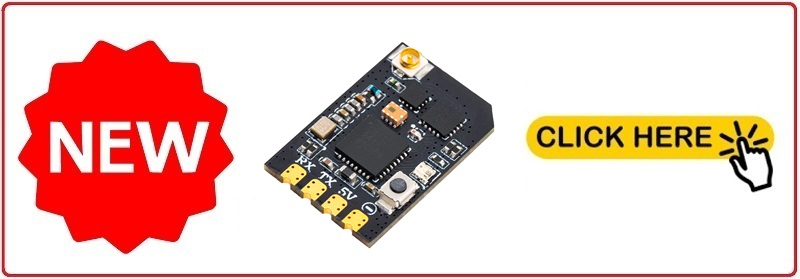
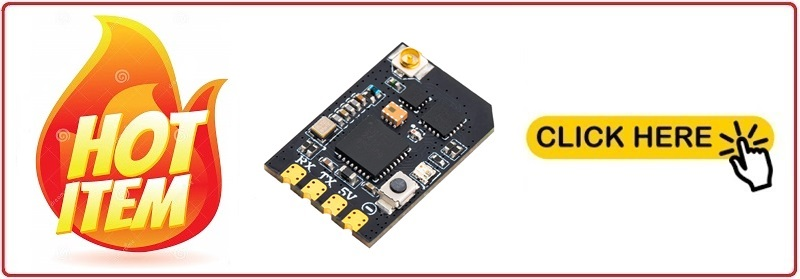
[Actions CI] exclude Retro, include Retro Mk.II

Changed region(s): [[0.0, 0.0287, 0.3125, 0.9749]]

diff --git a/README.md b/README.md
@@ -13,6 +13,7 @@ DIY, multi-functional, compatible, sub-1 GHz ISM band radio based proximity awar
 [<img src="https://github.com/lyusupov/SoftRF/raw/master/documents/images/Prime3-banner.jpg">](https://github.com/lyusupov/SoftRF/wiki/Prime-Edition-MkIII)
 [<img src="https://github.com/lyusupov/SoftRF/raw/master/documents/images/Badge-banner.jpg">](https://github.com/lyusupov/SoftRF/wiki/Badge-Edition)
 [<img src="https://github.com/lyusupov/SoftRF/raw/master/documents/images/Card-banner.jpg">](https://github.com/lyusupov/SoftRF/wiki/Card-Edition)
+[<img src="https://github.com/lyusupov/SoftRF/raw/master/documents/images/Nano-banner.jpg">](https://github.com/lyusupov/SoftRF/wiki/Nano-Edition)
 
 ## Features
 
@@ -26,8 +27,8 @@ DIY, multi-functional, compatible, sub-1 GHz ISM band radio based proximity awar
 * **Portable**
     * [**Concorde Edition**](https://github.com/lyusupov/SoftRF/wiki/Concorde-Edition)&nbsp;![](https://github.com/lyusupov/SoftRF/raw/master/documents/images/new-icon.jpg)
     * [**Airventure Edition**](https://github.com/lyusupov/SoftRF/wiki/Airventure-Edition)&nbsp;![](https://github.com/lyusupov/SoftRF/raw/master/documents/images/new-icon.jpg)
-    * [**Handheld Edition**](https://github.com/lyusupov/SoftRF/wiki/Handheld-Edition)&nbsp;![](https://github.com/lyusupov/SoftRF/raw/master/documents/images/new-icon.jpg)
-    * [**Gizmo Edition**](https://github.com/lyusupov/SoftRF/wiki/Gizmo-Edition)&nbsp;![](https://github.com/lyusupov/SoftRF/raw/master/documents/images/new-icon.jpg)
+    * [**Handheld Edition**](https://github.com/lyusupov/SoftRF/wiki/Handheld-Edition)
+    * [**Gizmo Edition**](https://github.com/lyusupov/SoftRF/wiki/Gizmo-Edition)
     * [**Prime Mark III**](https://github.com/lyusupov/SoftRF/wiki/Prime-Edition-MkIII) ![](https://github.com/lyusupov/SoftRF/raw/master/documents/images/hot_icon.jpg)
     * [**Prime Mark II**](https://github.com/lyusupov/SoftRF/wiki/Prime-Edition-MkII)
 * **Classic** 2.25 inch instrument
@@ -40,7 +41,7 @@ DIY, multi-functional, compatible, sub-1 GHz ISM band radio based proximity awar
     * [**Prime Mark III**](https://github.com/lyusupov/SoftRF/wiki/Prime-Edition-MkIII)
     * [**Solaris Edition**](https://github.com/lyusupov/SoftRF/wiki/Solaris-Edition)&nbsp;![](https://github.com/lyusupov/SoftRF/raw/master/documents/images/new-icon.jpg)
     * [**Pocket Edition**](https://github.com/lyusupov/SoftRF/wiki/Pocket-Edition)&nbsp;![](https://github.com/lyusupov/SoftRF/raw/master/documents/images/new-icon.jpg)
-    * [**Handheld Edition**](https://github.com/lyusupov/SoftRF/wiki/Handheld-Edition)&nbsp;![](https://github.com/lyusupov/SoftRF/raw/master/documents/images/new-icon.jpg)
+    * [**Handheld Edition**](https://github.com/lyusupov/SoftRF/wiki/Handheld-Edition)
     * [**Prime Mark II**](https://github.com/lyusupov/SoftRF/wiki/Prime-Edition-MkII)
     * [**Uni Edition**](https://github.com/lyusupov/SoftRF/wiki/Uni-Edition)
     * [**Mini Edition**](https://github.com/lyusupov/SoftRF/wiki/Mini-Edition)
@@ -68,7 +69,7 @@ DIY, multi-functional, compatible, sub-1 GHz ISM band radio based proximity awar
     * [**Card Edition**](https://github.com/lyusupov/SoftRF/wiki/Card-Edition)&nbsp;![](https://github.com/lyusupov/SoftRF/raw/master/documents/images/hot_icon.jpg) - IP65
     * [**Lego Edition**](https://github.com/lyusupov/SoftRF/wiki/Lego-Edition) - IP67
 * **UAV** add-on
-    * [**Nano Edition**](https://github.com/lyusupov/SoftRF/wiki/Nano-Edition)&nbsp;![](https://github.com/lyusupov/SoftRF/raw/master/documents/images/new-icon.jpg)
+    * [**Nano Edition**](https://github.com/lyusupov/SoftRF/wiki/Nano-Edition)&nbsp;![](https://github.com/lyusupov/SoftRF/raw/master/documents/images/hot_icon.jpg)
     * [**UAV Edition**](https://github.com/lyusupov/SoftRF/wiki/UAV-Edition)
 * Raspberry Pi **friendly**
     * [**Raspberry Edition**](https://github.com/lyusupov/SoftRF/wiki/Raspberry-Edition)
@@ -129,15 +130,15 @@ Model(s)|Platform|First appearance|&nbsp;&nbsp;&nbsp;&nbsp;&nbsp;&nbsp;&nbsp;Sta
 1&nbsp;[Retro](https://github.com/lyusupov/SoftRF/wiki/Retro-Edition)<br>2&nbsp;[**Dongle**](https://github.com/lyusupov/SoftRF/wiki/Dongle-Edition)<br>3&nbsp;[**Bracelet**](https://github.com/lyusupov/SoftRF/wiki/Bracelet-Edition)<br>4&nbsp;[**Retro Mark II**](https://github.com/lyusupov/SoftRF/wiki/Retro-Edition-MkII)&nbsp;![](https://github.com/lyusupov/SoftRF/raw/master/documents/images/new-icon.jpg)|[STMicroelectronics](https://en.wikipedia.org/wiki/STMicroelectronics)<br>[STM32**F103**](https://www.st.com/en/microcontrollers-microprocessors/stm32f103.html) and<br>[STM32**L073**](https://www.st.com/en/microcontrollers-microprocessors/stm32l073rz.html)|Q3 2019|![](https://github.com/lyusupov/SoftRF/raw/master/documents/images/icon_good.png)<!-- ![](https://via.placeholder.com/140x70/FFFF00/000000?text=In+progress)-->|<!-- [AcSiP **S76G**](http://www.acsip.com.tw/index.php?action=products-detail&fid1=19&fid2=&fid3=&id=41&lang=3) "3-in-1" system-in-package is doing good [ [1](https://raw.githubusercontent.com/lyusupov/SoftRF/master/documents/images/watch-1.jpg) , [2](https://raw.githubusercontent.com/lyusupov/SoftRF/master/documents/images/t-motion-4.jpg) , [3](https://raw.githubusercontent.com/lyusupov/SoftRF/master/documents/images/t-motion-5.jpg) ] .<br>As well as STM32F103C8 "**Blue Pill**" (same MCU that [STM32 OGN tracker](http://wiki.glidernet.org/stm32-ogn-tracker) uses) [ [4](https://raw.githubusercontent.com/lyusupov/SoftRF/master/documents/images/stm32_breadboard.jpg) , [5](https://raw.githubusercontent.com/lyusupov/SoftRF/master/documents/images/stm32_ognweb_1.JPG) ] . -->
 [**Uni**](https://github.com/lyusupov/SoftRF/wiki/Uni-Edition)|[Texas Instruments<br>CC13x2R](http://www.ti.com/product/CC1352R)|Q2 2020|![](https://github.com/lyusupov/SoftRF/raw/master/documents/images/icon_good.png)<!-- ![](https://via.placeholder.com/140x70/FFFF00/000000?text=In+progress) -->|1&nbsp;Unique RF radio specs are useful for UAT978 **ADS-B** reception ; <br>2&nbsp;holds [**FCC/CE** mark](https://github.com/lyusupov/SoftRF/wiki/Uni-Edition#certificates)
 [**Mini**](https://github.com/lyusupov/SoftRF/wiki/Mini-Edition)|[Cypress<br>PSoC 4100**S**](https://en.wikipedia.org/wiki/Cypress_PSoC)|Q3 2020|![](https://github.com/lyusupov/SoftRF/raw/master/documents/images/icon_good.png)<!-- ![](https://via.placeholder.com/140x40/c5f015/000000?text=May+need)<br>![](https://via.placeholder.com/140x40/c5f015/000000?text=improvements) -->|1&nbsp;good add-on candidate for modded Kobo e-Readers ;<br>2&nbsp;holds [**FCC/CE** mark](https://github.com/lyusupov/SoftRF/wiki/Mini-Edition#certificates)
-1&nbsp;[**Badge**](https://github.com/lyusupov/SoftRF/wiki/Badge-Edition)<br>2&nbsp;[**Card**](https://github.com/lyusupov/SoftRF/wiki/Card-Edition)&nbsp;![](https://github.com/lyusupov/SoftRF/raw/master/documents/images/hot_icon.jpg)<br>3&nbsp;[**Cozy**](https://github.com/lyusupov/SoftRF/wiki/Cozy-Edition)<br>4&nbsp;[**Handheld**](https://github.com/lyusupov/SoftRF/wiki/Handheld-Edition)&nbsp;![](https://github.com/lyusupov/SoftRF/raw/master/documents/images/new-icon.jpg)<br>5&nbsp;[**Solaris**](https://github.com/lyusupov/SoftRF/wiki/Solaris-Edition)&nbsp;![](https://github.com/lyusupov/SoftRF/raw/master/documents/images/new-icon.jpg)<br>6&nbsp;[**Pocket**](https://github.com/lyusupov/SoftRF/wiki/Pocket-Edition)&nbsp;![](https://github.com/lyusupov/SoftRF/raw/master/documents/images/new-icon.jpg)|[Nordic Semiconductor<br>nRF52840](https://www.nordicsemi.com/Products/Low-power-short-range-wireless/nRF52840)|Q4 2020|![](https://github.com/lyusupov/SoftRF/raw/master/documents/images/icon_good.png)|&nbsp;holds [**FCC/CE** mark](https://github.com/lyusupov/SoftRF/wiki/Badge-Edition#certificates)
+1&nbsp;[**Badge**](https://github.com/lyusupov/SoftRF/wiki/Badge-Edition)<br>2&nbsp;[**Card**](https://github.com/lyusupov/SoftRF/wiki/Card-Edition)&nbsp;![](https://github.com/lyusupov/SoftRF/raw/master/documents/images/hot_icon.jpg)<br>3&nbsp;[**Cozy**](https://github.com/lyusupov/SoftRF/wiki/Cozy-Edition)<br>4&nbsp;[**Handheld**](https://github.com/lyusupov/SoftRF/wiki/Handheld-Edition)<br>5&nbsp;[**Solaris**](https://github.com/lyusupov/SoftRF/wiki/Solaris-Edition)&nbsp;![](https://github.com/lyusupov/SoftRF/raw/master/documents/images/new-icon.jpg)<br>6&nbsp;[**Pocket**](https://github.com/lyusupov/SoftRF/wiki/Pocket-Edition)&nbsp;![](https://github.com/lyusupov/SoftRF/raw/master/documents/images/new-icon.jpg)|[Nordic Semiconductor<br>nRF52840](https://www.nordicsemi.com/Products/Low-power-short-range-wireless/nRF52840)|Q4 2020|![](https://github.com/lyusupov/SoftRF/raw/master/documents/images/icon_good.png)|&nbsp;holds [**FCC/CE** mark](https://github.com/lyusupov/SoftRF/wiki/Badge-Edition#certificates)
 [**ES**](https://github.com/lyusupov/SoftRF/wiki/ES-Edition)|[NXP Semiconductors<br>LPC4320](https://en.wikipedia.org/wiki/NXP_LPC#LPC4000_series)|Q2 2021|![](https://github.com/lyusupov/SoftRF/raw/master/documents/images/icon_may_need_imp.png)|Unique RF radio specs are useful for 1090ES **ADS-B** reception [ [1](https://user-images.githubusercontent.com/5849637/140610617-7c74582e-b0d7-4610-8ac2-d51f55c9086d.png) , [2](https://raw.githubusercontent.com/lyusupov/SoftRF/master/documents/images/ES-1.jpg) ]
 1&nbsp;[**Academy**](https://github.com/lyusupov/SoftRF/wiki/Academy-Edition)<br>2&nbsp;[USB2BT](https://github.com/lyusupov/SoftRF/wiki/USB-to-Bluetooth-adapter)|[Microchip&nbsp;(Atmel)<br>SAM&nbsp;D21](https://www.microchip.com/en-us/products/microcontrollers-and-microprocessors/32-bit-mcus/sam-32-bit-mcus/sam-d) <!-- and [ATmega2560](https://www.microchip.com/en-us/product/ATmega2560) -->|Q4 2021|![](https://github.com/lyusupov/SoftRF/raw/master/documents/images/icon_good.png) <!-- ![](https://via.placeholder.com/140x40/c5f015/000000?text=May+need)<br>![](https://via.placeholder.com/140x40/c5f015/000000?text=improvements) -->|good for teaching students of air traffic proximity awareness
 [**Octave**](https://github.com/lyusupov/SoftRF/wiki/Octave-Concept)|[ASR Microelectronics<br>ASR6601](https://asriot.readthedocs.io/en/latest/ASR6601/index.html)|Q1 2022|![](https://github.com/lyusupov/SoftRF/raw/master/documents/images/icon_good.png)| **the best 'price per radio protocol' ratio** on the market
 1&nbsp;[**Lego**](https://github.com/lyusupov/SoftRF/wiki/Lego-Edition)<br>2&nbsp;[**SkyView Pico**](https://github.com/lyusupov/SoftRF/wiki/SkyView-Pico)|[Raspberry Pi<br>Foundation<br>**RP2040**](https://en.wikipedia.org/wiki/RP2040)|Q1 2022|![](https://github.com/lyusupov/SoftRF/raw/master/documents/images/icon_good.png)|&nbsp;holds [**FCC/CE** mark](https://github.com/lyusupov/SoftRF/wiki/Lego-Edition#certificates)
 [**Balkan**](https://github.com/lyusupov/SoftRF/wiki/Balkan-Edition)|[STMicroelectronics](https://en.wikipedia.org/wiki/STMicroelectronics)<br>[STM32**WLE5**](https://www.st.com/en/microcontrollers-microprocessors/stm32wle5cc.html)|Q3 2022|![](https://github.com/lyusupov/SoftRF/raw/master/documents/images/icon_good.png)|&nbsp;holds [**CE** mark](https://github.com/lyusupov/SoftRF/wiki/Balkan-Edition#certificates)
 [**WebTop USB**](https://github.com/lyusupov/SoftRF/wiki/WebTop-USB)|[Espressif<br>ESP32-S2](https://en.wikipedia.org/wiki/ESP32#ESP32-S2)|Q4 2022|![](https://github.com/lyusupov/SoftRF/raw/master/documents/images/icon_good.png)|
-1&nbsp;[**Standalone**](https://github.com/lyusupov/SoftRF/wiki/Standalone-Edition)&nbsp;**upgrade**<br>2&nbsp;[**Nano**](https://github.com/lyusupov/SoftRF/wiki/Nano-Edition)&nbsp;![](https://github.com/lyusupov/SoftRF/raw/master/documents/images/new-icon.jpg)|[Espressif<br>ESP32-C3](https://en.wikipedia.org/wiki/ESP32#ESP32-C3)|Q1 2023|![](https://github.com/lyusupov/SoftRF/raw/master/documents/images/icon_good.png)|[RISC-V](https://en.wikipedia.org/wiki/RISC-V)
-1&nbsp;[**Prime Mark III**](https://github.com/lyusupov/SoftRF/wiki/Prime-Edition-MkIII)![](https://github.com/lyusupov/SoftRF/raw/master/documents/images/hot_icon.jpg)<br>2&nbsp;[**SkyView Pico**](https://github.com/lyusupov/SoftRF/wiki/SkyView-Pico#alternative-hardware-option)<br>3&nbsp;[**Ham**](https://github.com/lyusupov/SoftRF/wiki/Ham-Edition)<br>4&nbsp;[**Midi**](https://github.com/lyusupov/SoftRF/wiki/Midi-Edition)<br>5&nbsp;[**Gizmo**](https://github.com/lyusupov/SoftRF/wiki/Gizmo-Edition)&nbsp;![](https://github.com/lyusupov/SoftRF/raw/master/documents/images/new-icon.jpg)<br>6&nbsp;[**Airventure**](https://github.com/lyusupov/SoftRF/wiki/Airventure-Edition)&nbsp;![](https://github.com/lyusupov/SoftRF/raw/master/documents/images/new-icon.jpg)|[Espressif<br>ESP32-S3](https://en.wikipedia.org/wiki/ESP32#ESP32-S3)|Q1 2023|![](https://github.com/lyusupov/SoftRF/raw/master/documents/images/icon_may_need_imp.png)|
+1&nbsp;[**Standalone**](https://github.com/lyusupov/SoftRF/wiki/Standalone-Edition)&nbsp;**upgrade**<br>2&nbsp;[**Nano**](https://github.com/lyusupov/SoftRF/wiki/Nano-Edition)&nbsp;![](https://github.com/lyusupov/SoftRF/raw/master/documents/images/hot_icon.jpg)|[Espressif<br>ESP32-C3](https://en.wikipedia.org/wiki/ESP32#ESP32-C3)|Q1 2023|![](https://github.com/lyusupov/SoftRF/raw/master/documents/images/icon_good.png)|[RISC-V](https://en.wikipedia.org/wiki/RISC-V)
+1&nbsp;[**Prime Mark III**](https://github.com/lyusupov/SoftRF/wiki/Prime-Edition-MkIII)![](https://github.com/lyusupov/SoftRF/raw/master/documents/images/hot_icon.jpg)<br>2&nbsp;[**SkyView Pico**](https://github.com/lyusupov/SoftRF/wiki/SkyView-Pico#alternative-hardware-option)<br>3&nbsp;[**Ham**](https://github.com/lyusupov/SoftRF/wiki/Ham-Edition)<br>4&nbsp;[**Midi**](https://github.com/lyusupov/SoftRF/wiki/Midi-Edition)<br>5&nbsp;[**Gizmo**](https://github.com/lyusupov/SoftRF/wiki/Gizmo-Edition)<br>6&nbsp;[**Airventure**](https://github.com/lyusupov/SoftRF/wiki/Airventure-Edition)&nbsp;![](https://github.com/lyusupov/SoftRF/raw/master/documents/images/new-icon.jpg)|[Espressif<br>ESP32-S3](https://en.wikipedia.org/wiki/ESP32#ESP32-S3)|Q1 2023|![](https://github.com/lyusupov/SoftRF/raw/master/documents/images/icon_may_need_imp.png)|
 1&nbsp;[**Standalone**](https://github.com/lyusupov/SoftRF/wiki/Standalone-Edition)&nbsp;**upgrade**![](https://github.com/lyusupov/SoftRF/raw/master/documents/images/hot_icon.jpg)<br>2&nbsp;[**Eco**](https://github.com/lyusupov/SoftRF/wiki/Eco-Edition)<br>3&nbsp;[**Duo**](https://github.com/lyusupov/SoftRF/wiki/Eco-Edition#duo-concept)|[Espressif<br>ESP32-C6](https://en.wikipedia.org/wiki/ESP32#ESP32-C6)|Q1 2024|![](https://github.com/lyusupov/SoftRF/raw/master/documents/images/icon_good.png)|2 [RISC-V](https://en.wikipedia.org/wiki/RISC-V) cores<br>big.LITTLE
 [**Academy**](https://github.com/lyusupov/SoftRF/wiki/Academy-Edition)&nbsp;![](https://github.com/lyusupov/SoftRF/raw/master/documents/images/updated-icon.gif) **upgrade**|[Renesas<br>RA4M1](https://en.wikipedia.org/wiki/Renesas_Electronics#The_RA_MCU_family)|Q1 2024|![](https://github.com/lyusupov/SoftRF/raw/master/documents/images/icon_may_need_imp.png)|
 Academy|[Silicon Labs](https://en.wikipedia.org/wiki/Silicon_Labs)<br>[EFx32](https://en.wikipedia.org/wiki/EFM32)|Q3 2024|![](https://github.com/lyusupov/SoftRF/raw/master/documents/images/icon_in_progress.png)|
@@ -156,12 +157,12 @@ Radio|Model(s)|First appearance|&nbsp;&nbsp;&nbsp;&nbsp;&nbsp;&nbsp;&nbsp;Status
 [Semtech<br>SX1276](https://www.semtech.com/products/wireless-rf/lora-transceivers/sx1276)|1&nbsp;[LoRa module](https://github.com/lyusupov/SoftRF/wiki/SoftRF-LoRa-module)<br>2&nbsp;[**Prime Mark II**](https://github.com/lyusupov/SoftRF/wiki/Prime-Edition-MkII)<br>3&nbsp;[**Raspberry Edition**](https://github.com/lyusupov/SoftRF/wiki/Raspberry-Edition)<br>4&nbsp;[**Dongle**](https://github.com/lyusupov/SoftRF/wiki/Dongle-Edition)<br>5&nbsp;[**Academy**](https://github.com/lyusupov/SoftRF/wiki/Academy-Edition)<!-- <br>5&nbsp;[**Bracelet**](https://github.com/lyusupov/SoftRF/wiki/Bracelet-Edition) -->|Q4 2017|![](https://github.com/lyusupov/SoftRF/raw/master/documents/images/icon_good.png)|&nbsp;
 [Texas Instruments<br>CC1310](http://www.ti.com/product/CC1310)|[UAT module](https://github.com/lyusupov/UAT-test-signal#variant-2-advanced)|Q1 2019|![](https://github.com/lyusupov/SoftRF/raw/master/documents/images/icon_good.png)|&nbsp;
 [Semtech<br>SX1231](https://www.semtech.com/products/wireless-rf/fsk-transceivers/sx1231)|[Retro](https://github.com/lyusupov/SoftRF/wiki/Retro-Edition)|Q3 2019|![](https://github.com/lyusupov/SoftRF/raw/master/documents/images/icon_limited.png)|operates through OGN driver with OGNTP protocol only
-[Semtech<br>SX1262](https://www.semtech.com/products/wireless-rf/lora-transceivers/sx1262)|1&nbsp;[**Prime Mark II**](https://github.com/lyusupov/SoftRF/wiki/Prime-Edition-MkII)<br>2&nbsp;[**Mini**](https://github.com/lyusupov/SoftRF/wiki/Mini-Edition)<br>3&nbsp;[**Badge**](https://github.com/lyusupov/SoftRF/wiki/Badge-Edition)<br>4&nbsp;[**Lego**](https://github.com/lyusupov/SoftRF/wiki/Lego-Edition)<br>5&nbsp;[**Balkan**](https://github.com/lyusupov/SoftRF/wiki/Balkan-Edition)<br>6&nbsp;[**Prime Mark III**](https://github.com/lyusupov/SoftRF/wiki/Prime-Edition-MkIII)<br>7&nbsp;[**Midi**](https://github.com/lyusupov/SoftRF/wiki/Midi-Edition)<br>8&nbsp;[**Cozy**](https://github.com/lyusupov/SoftRF/wiki/Cozy-Edition)<br>9&nbsp;[**Handheld**](https://github.com/lyusupov/SoftRF/wiki/Handheld-Edition)&nbsp;![](https://github.com/lyusupov/SoftRF/raw/master/documents/images/new-icon.jpg)<br>10&nbsp;[**Gizmo**](https://github.com/lyusupov/SoftRF/wiki/Gizmo-Edition)&nbsp;![](https://github.com/lyusupov/SoftRF/raw/master/documents/images/new-icon.jpg)<br>11&nbsp;[**Airventure**](https://github.com/lyusupov/SoftRF/wiki/Airventure-Edition)&nbsp;![](https://github.com/lyusupov/SoftRF/raw/master/documents/images/new-icon.jpg)<br>12&nbsp;[**Lyra**](https://github.com/lyusupov/SoftRF/wiki/Lyra-Edition)&nbsp;![](https://github.com/lyusupov/SoftRF/raw/master/documents/images/new-icon.jpg)<br>13&nbsp;[**Solaris**](https://github.com/lyusupov/SoftRF/wiki/Solaris-Edition)&nbsp;![](https://github.com/lyusupov/SoftRF/raw/master/documents/images/new-icon.jpg)<br>14&nbsp;[**Concorde**](https://github.com/lyusupov/SoftRF/wiki/Concorde-Edition)&nbsp;![](https://github.com/lyusupov/SoftRF/raw/master/documents/images/new-icon.jpg)|Q1 2020|![](https://github.com/lyusupov/SoftRF/raw/master/documents/images/icon_good.png)|&nbsp;
+[Semtech<br>SX1262](https://www.semtech.com/products/wireless-rf/lora-transceivers/sx1262)|1&nbsp;[**Prime Mark II**](https://github.com/lyusupov/SoftRF/wiki/Prime-Edition-MkII)<br>2&nbsp;[**Mini**](https://github.com/lyusupov/SoftRF/wiki/Mini-Edition)<br>3&nbsp;[**Badge**](https://github.com/lyusupov/SoftRF/wiki/Badge-Edition)<br>4&nbsp;[**Lego**](https://github.com/lyusupov/SoftRF/wiki/Lego-Edition)<br>5&nbsp;[**Balkan**](https://github.com/lyusupov/SoftRF/wiki/Balkan-Edition)<br>6&nbsp;[**Prime Mark III**](https://github.com/lyusupov/SoftRF/wiki/Prime-Edition-MkIII)<br>7&nbsp;[**Midi**](https://github.com/lyusupov/SoftRF/wiki/Midi-Edition)<br>8&nbsp;[**Cozy**](https://github.com/lyusupov/SoftRF/wiki/Cozy-Edition)<br>9&nbsp;[**Handheld**](https://github.com/lyusupov/SoftRF/wiki/Handheld-Edition)<br>10&nbsp;[**Gizmo**](https://github.com/lyusupov/SoftRF/wiki/Gizmo-Edition)<br>11&nbsp;[**Airventure**](https://github.com/lyusupov/SoftRF/wiki/Airventure-Edition)&nbsp;![](https://github.com/lyusupov/SoftRF/raw/master/documents/images/new-icon.jpg)<br>12&nbsp;[**Lyra**](https://github.com/lyusupov/SoftRF/wiki/Lyra-Edition)&nbsp;![](https://github.com/lyusupov/SoftRF/raw/master/documents/images/new-icon.jpg)<br>13&nbsp;[**Solaris**](https://github.com/lyusupov/SoftRF/wiki/Solaris-Edition)&nbsp;![](https://github.com/lyusupov/SoftRF/raw/master/documents/images/new-icon.jpg)<br>14&nbsp;[**Concorde**](https://github.com/lyusupov/SoftRF/wiki/Concorde-Edition)&nbsp;![](https://github.com/lyusupov/SoftRF/raw/master/documents/images/new-icon.jpg)|Q1 2020|![](https://github.com/lyusupov/SoftRF/raw/master/documents/images/icon_good.png)|&nbsp;
 [Texas Instruments<br>CC13x2R](http://www.ti.com/product/CC1352R)|[**Uni Edition**](https://github.com/lyusupov/SoftRF/wiki/Uni-Edition)|Q2 2020|![](https://github.com/lyusupov/SoftRF/raw/master/documents/images/icon_good.png)|&nbsp;
 [Maxim Integrated](https://en.wikipedia.org/wiki/Maxim_Integrated)<br>[MAX2837](https://www.maximintegrated.com/en/products/comms/wireless-rf/MAX2837.html)&nbsp;and<br>[MAX5864](https://www.maximintegrated.com/en/products/analog/data-converters/analog-front-end-ics/MAX5864.html)|[**ES Edition**](https://github.com/lyusupov/SoftRF/wiki/ES-Edition)|Q2 2021|![](https://github.com/lyusupov/SoftRF/raw/master/documents/images/icon_may_need_imp.png)|**S**oftware<br>**D**efined<br>**R**adio
 [NiceRF](https://www.nicerf.com)<br>[SA868](https://www.nicerf.com/item/2w-embedded-walkie-talkie-module-sa868)|[**Ham Edition**](https://github.com/lyusupov/SoftRF/wiki/Ham-Edition)|Q3 2023|![](https://github.com/lyusupov/SoftRF/raw/master/documents/images/icon_may_need_imp.png)|VHF or UHF "Ham Radio" bands
 [Semtech<br>LR1110](https://www.semtech.com/products/wireless-rf/lora-edge/lr1110)|1&nbsp;[**Card**](https://github.com/lyusupov/SoftRF/wiki/Card-Edition)&nbsp;![](https://github.com/lyusupov/SoftRF/raw/master/documents/images/hot_icon.jpg)<br>2&nbsp;[**Pocket**](https://github.com/lyusupov/SoftRF/wiki/Pocket-Edition)&nbsp;![](https://github.com/lyusupov/SoftRF/raw/master/documents/images/new-icon.jpg)|Q3 2024|![](https://github.com/lyusupov/SoftRF/raw/master/documents/images/icon_good.png)|&nbsp;
-[Semtech<br>LR1121](https://www.semtech.com/products/wireless-rf/lora-connect/lr1121)&nbsp;![](https://github.com/lyusupov/SoftRF/raw/master/documents/images/hot_icon.jpg)|1&nbsp;[**Standalone**](https://github.com/lyusupov/SoftRF/wiki/Standalone-Edition)<br>2&nbsp;[**Prime Mark III**](https://github.com/lyusupov/SoftRF/wiki/Prime-Edition-MkIII)<br>3&nbsp;[**Nano**](https://github.com/lyusupov/SoftRF/wiki/Nano-Edition)&nbsp;![](https://github.com/lyusupov/SoftRF/raw/master/documents/images/new-icon.jpg)|Q4 2024|![](https://github.com/lyusupov/SoftRF/raw/master/documents/images/icon_good.png)|2.1&nbsp;GHz&nbsp;S-band<br>2.4&nbsp;GHz&nbsp;ISM
+[Semtech<br>LR1121](https://www.semtech.com/products/wireless-rf/lora-connect/lr1121)&nbsp;![](https://github.com/lyusupov/SoftRF/raw/master/documents/images/hot_icon.jpg)|1&nbsp;[**Standalone**](https://github.com/lyusupov/SoftRF/wiki/Standalone-Edition)<br>2&nbsp;[**Prime Mark III**](https://github.com/lyusupov/SoftRF/wiki/Prime-Edition-MkIII)<br>3&nbsp;[**Nano**](https://github.com/lyusupov/SoftRF/wiki/Nano-Edition)&nbsp;![](https://github.com/lyusupov/SoftRF/raw/master/documents/images/hot_icon.jpg)|Q4 2024|![](https://github.com/lyusupov/SoftRF/raw/master/documents/images/icon_good.png)|2.1&nbsp;GHz&nbsp;S-band<br>2.4&nbsp;GHz&nbsp;ISM
 Semtech&nbsp;SX1231<br><!--Semtech&nbsp;SX1280<br>-->TI&nbsp;CC1101<br>Silicon&nbsp;Labs&nbsp;Si4432<br>Silicon&nbsp;Labs&nbsp;Si4463|[**Standalone**](https://github.com/lyusupov/SoftRF/wiki/Standalone-Edition)|Q1 2025|![](https://github.com/lyusupov/SoftRF/raw/master/documents/images/icon_may_need_imp.png)|&nbsp;
 [Semtech<br>LR2021](https://www.semtech.com/products/wireless-rf/lora-plus/lr2021)&nbsp;![](https://github.com/lyusupov/SoftRF/raw/master/documents/images/new-icon.jpg)|1&nbsp;[**Standalone**](https://github.com/lyusupov/SoftRF/wiki/Standalone-Edition)<br>2&nbsp;[**Retro Mark II**](https://github.com/lyusupov/SoftRF/wiki/Retro-Edition-MkII)&nbsp;![](https://github.com/lyusupov/SoftRF/raw/master/documents/images/new-icon.jpg)|Q1 2026|![](https://github.com/lyusupov/SoftRF/raw/master/documents/images/icon_may_need_imp.png)|[the radio can receive ADS-B @ 1090 MHz](https://github.com/lyusupov/SoftRF/wiki/SoftRF-LoRa-module#upgrade-with-most-recent-semtech-lr2021-radio)&nbsp;![](https://github.com/lyusupov/SoftRF/raw/master/documents/images/hot_icon.jpg)
 
@@ -170,7 +171,7 @@ GNSS|Model(s)|First appearance|&nbsp;&nbsp;&nbsp;&nbsp;&nbsp;&nbsp;&nbsp;Status&
 ---|:---:|:---:|:---:|---
 Generic<br>NMEA|[Standalone](https://github.com/lyusupov/SoftRF/wiki/Standalone-Edition)|Q4 2016|![](https://github.com/lyusupov/SoftRF/raw/master/documents/images/icon_good.png)|&nbsp;
 [U-blox](https://en.wikipedia.org/wiki/U-blox)<br>6/7/8/9/10|1&nbsp;[**Prime Mark II**](https://github.com/lyusupov/SoftRF/wiki/Prime-Edition-MkII)<br>2&nbsp;[Retro](https://github.com/lyusupov/SoftRF/wiki/Retro-Edition)<br>3&nbsp;[**Uni**](https://github.com/lyusupov/SoftRF/wiki/Uni-Edition)<br>4&nbsp;[**Lego**](https://github.com/lyusupov/SoftRF/wiki/Lego-Edition)<br>5&nbsp;[**Balkan**](https://github.com/lyusupov/SoftRF/wiki/Balkan-Edition)<br>6&nbsp;[**Prime Mark III**](https://github.com/lyusupov/SoftRF/wiki/Prime-Edition-MkIII)|Q2 2018|![](https://github.com/lyusupov/SoftRF/raw/master/documents/images/icon_good.png)|&nbsp;
-[Hangzhou ZhongKe](http://www.icofchina.com/)<br>AT6558|[1&nbsp;**Prime Mark II**](https://github.com/lyusupov/SoftRF/wiki/Prime-Edition-MkII)<br>2&nbsp;[**Mini**](https://github.com/lyusupov/SoftRF/wiki/Mini-Edition)<br>3&nbsp;[**Badge**](https://github.com/lyusupov/SoftRF/wiki/Badge-Edition)<br>4&nbsp;[**Prime Mark III**](https://github.com/lyusupov/SoftRF/wiki/Prime-Edition-MkIII)<br>5&nbsp;[**Ham**](https://github.com/lyusupov/SoftRF/wiki/Ham-Edition)<br>6&nbsp;[**Cozy**](https://github.com/lyusupov/SoftRF/wiki/Cozy-Edition)<br>7&nbsp;[**Handheld**](https://github.com/lyusupov/SoftRF/wiki/Handheld-Edition)&nbsp;![](https://github.com/lyusupov/SoftRF/raw/master/documents/images/new-icon.jpg)<br>8&nbsp;[**Airventure**](https://github.com/lyusupov/SoftRF/wiki/Airventure-Edition)&nbsp;![](https://github.com/lyusupov/SoftRF/raw/master/documents/images/new-icon.jpg)<br>9&nbsp;[**Lyra**](https://github.com/lyusupov/SoftRF/wiki/Lyra-Edition)&nbsp;![](https://github.com/lyusupov/SoftRF/raw/master/documents/images/new-icon.jpg)<br>10&nbsp;[**Solaris**](https://github.com/lyusupov/SoftRF/wiki/Solaris-Edition)&nbsp;![](https://github.com/lyusupov/SoftRF/raw/master/documents/images/new-icon.jpg)<br>11&nbsp;[**Pocket**](https://github.com/lyusupov/SoftRF/wiki/Pocket-Edition)&nbsp;![](https://github.com/lyusupov/SoftRF/raw/master/documents/images/new-icon.jpg)<br>12&nbsp;[**Concorde**](https://github.com/lyusupov/SoftRF/wiki/Concorde-Edition)&nbsp;![](https://github.com/lyusupov/SoftRF/raw/master/documents/images/new-icon.jpg)|Q2 2019|![](https://github.com/lyusupov/SoftRF/raw/master/documents/images/icon_good.png)|&nbsp;
+[Hangzhou ZhongKe](http://www.icofchina.com/)<br>AT6558|[1&nbsp;**Prime Mark II**](https://github.com/lyusupov/SoftRF/wiki/Prime-Edition-MkII)<br>2&nbsp;[**Mini**](https://github.com/lyusupov/SoftRF/wiki/Mini-Edition)<br>3&nbsp;[**Badge**](https://github.com/lyusupov/SoftRF/wiki/Badge-Edition)<br>4&nbsp;[**Prime Mark III**](https://github.com/lyusupov/SoftRF/wiki/Prime-Edition-MkIII)<br>5&nbsp;[**Ham**](https://github.com/lyusupov/SoftRF/wiki/Ham-Edition)<br>6&nbsp;[**Cozy**](https://github.com/lyusupov/SoftRF/wiki/Cozy-Edition)<br>7&nbsp;[**Handheld**](https://github.com/lyusupov/SoftRF/wiki/Handheld-Edition)<br>8&nbsp;[**Airventure**](https://github.com/lyusupov/SoftRF/wiki/Airventure-Edition)&nbsp;![](https://github.com/lyusupov/SoftRF/raw/master/documents/images/new-icon.jpg)<br>9&nbsp;[**Lyra**](https://github.com/lyusupov/SoftRF/wiki/Lyra-Edition)&nbsp;![](https://github.com/lyusupov/SoftRF/raw/master/documents/images/new-icon.jpg)<br>10&nbsp;[**Solaris**](https://github.com/lyusupov/SoftRF/wiki/Solaris-Edition)&nbsp;![](https://github.com/lyusupov/SoftRF/raw/master/documents/images/new-icon.jpg)<br>11&nbsp;[**Pocket**](https://github.com/lyusupov/SoftRF/wiki/Pocket-Edition)&nbsp;![](https://github.com/lyusupov/SoftRF/raw/master/documents/images/new-icon.jpg)<br>12&nbsp;[**Concorde**](https://github.com/lyusupov/SoftRF/wiki/Concorde-Edition)&nbsp;![](https://github.com/lyusupov/SoftRF/raw/master/documents/images/new-icon.jpg)|Q2 2019|![](https://github.com/lyusupov/SoftRF/raw/master/documents/images/icon_good.png)|&nbsp;
 [Sony<br>CXD5603GF](https://www.sony-semicon.co.jp/e/products/lsi/gps/product.html)|1&nbsp;[**Dongle**](https://github.com/lyusupov/SoftRF/wiki/Dongle-Edition)<!-- <br>2&nbsp;[**Bracelet**](https://github.com/lyusupov/SoftRF/wiki/Bracelet-Edition) -->|Q4 2019|![](https://github.com/lyusupov/SoftRF/raw/master/documents/images/icon_good.png)|&nbsp;
 [MediaTek](https://en.wikipedia.org/wiki/MediaTek)<br>MT3339|1&nbsp;[**Raspberry**](https://github.com/lyusupov/SoftRF/wiki/Raspberry-Edition)<br>2&nbsp;[**Uni**](https://github.com/lyusupov/SoftRF/wiki/Uni-Edition)<br>3&nbsp;[**Academy**](https://github.com/lyusupov/SoftRF/wiki/Academy-Edition)<br>4&nbsp;[**Lego**](https://github.com/lyusupov/SoftRF/wiki/Lego-Edition)|Q3 2020|![](https://github.com/lyusupov/SoftRF/raw/master/documents/images/icon_good.png)|&nbsp;
 [GOKE](http://www.goke.com/en/)<br>GK9501|[**Mini**](https://github.com/lyusupov/SoftRF/wiki/Mini-Edition)|Q3 2020|![](https://github.com/lyusupov/SoftRF/raw/master/documents/images/icon_good.png)|&nbsp;